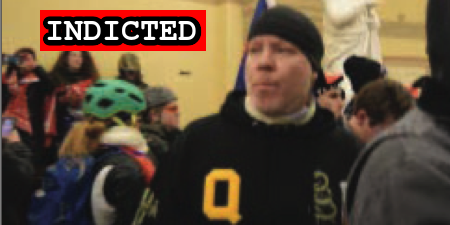
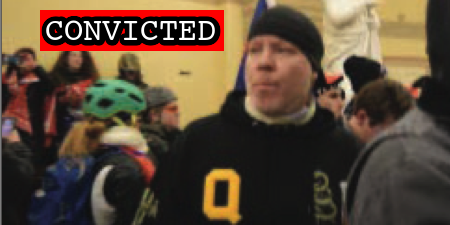
Grayson conviction

Changed region(s): [[0.0933, 0.0311, 0.4978, 0.2489]]

diff --git a/docs/_suspects/kenneth-grayson.md b/docs/_suspects/kenneth-grayson.md
@@ -4,16 +4,19 @@ lastName: Grayson
 hashtag: KennethGrayson
 aka:
 residence: Pennsylvania
-status: Indicted
+status: Convicted
 date: 2021-01-26
 charged: 2021-01-26
 indicted: 2021-03-17
-convicted:
+convicted: 2022-09-20
+acquitted:
 sentenced:
 dismissed:
 deceased:
 plea_hearing: 2022-09-20
-sentencing:
+trial_date:
+trial_type:
+sentencing: 2022-12-19
 age: 51
 occupation:
 affiliations:
@@ -34,6 +37,10 @@ published: true
 caseNumber: 1:21-cr-224
 videos:
 charges:
+  - code: 18 USC § 231(a)(3)
+    title: Obstruction of Law Enforcement During Civil Disorder
+    url: https://www.law.cornell.edu/uscode/text/18/231
+    felony: true
 sentence:
 ---
 
@@ -41,3 +48,7 @@ sentence:
 - [Complaint](https://www.justice.gov/opa/page/file/1360506/download)
 - [Statement of Facts](https://www.justice.gov/opa/page/file/1360506/download)
 - [Indictment](https://www.justice.gov/usao-dc/case-multi-defendant/file/1379271/download)
+- [Information](https://www.justice.gov/usao-dc/case-multi-defendant/file/1536381/download)
+- [Plea Agreement](https://www.justice.gov/usao-dc/case-multi-defendant/file/1536371/download)
+- [Statement of Offense](https://www.justice.gov/usao-dc/case-multi-defendant/file/1536376/download)
+- [DOJ Statement (Conviction)](https://www.justice.gov/usao-dc/pr/pennsylvania-man-pleads-guilty-felony-charge-actions-during-jan-6-capitol-breach-0)

diff --git a/docs/_suspects/neil-ashcraft.md b/docs/_suspects/neil-ashcraft.md
@@ -37,16 +37,17 @@ published: true
 caseNumber: 1:22-cr-295
 videos:
 charges:
-  - code: 18 USC § 641
-    title: Theft of Government Property
-    url: https://www.law.cornell.edu/uscode/text/18/641
-    felony: false
-  - code: 18 USC § 1752(a)(1)
-    title: Entering a restricted building or grounds
-    url: https://www.law.cornell.edu/uscode/text/18/1752
-    felony: false
+- code: 18 USC § 641
+  title: Theft of Government Property
+  url: https://www.law.cornell.edu/uscode/text/18/641
+  felony: false
+- code: 18 USC § 1752(a)(1)
+  title: Entering a restricted building or grounds
+  url: https://www.law.cornell.edu/uscode/text/18/1752
+  felony: false
 sentence:
 ---
-
 - [News Report](https://bipartisanreport.com/2022/09/05/flagpole-wielding-jan-6-rioter-tracked-down-and-caught-by-feds/)
-- [Information](https://storage.courtlistener.com/recap/gov.uscourts.dcd.246922/gov.uscourts.dcd.246922.1.0.pdf)
+- [Information](https://www.justice.gov/usao-dc/case-multi-defendant/file/1536716/download)
+- [Plea Agreement](https://www.justice.gov/usao-dc/case-multi-defendant/file/1536721/download)
+- [Statement of Offense](https://www.justice.gov/usao-dc/case-multi-defendant/file/1536726/download)
